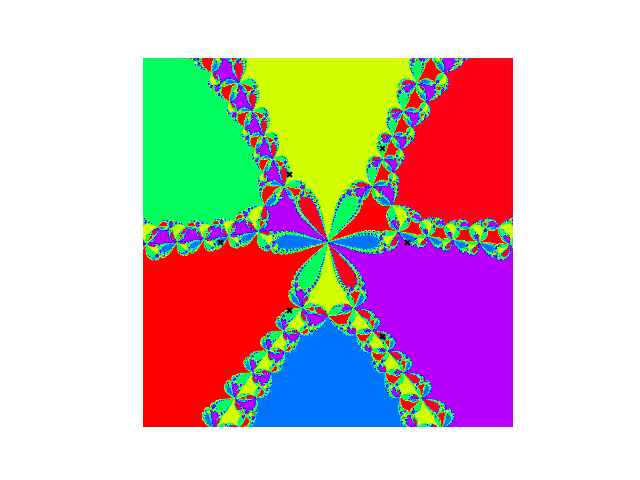
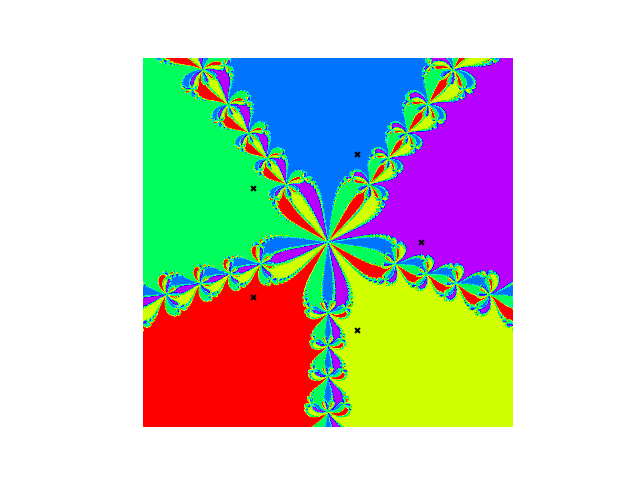
colors fix + main + script

diff --git a/main.py b/main.py
@@ -1,0 +1,32 @@
+import sys
+import warnings
+
+from newtonpolyroots import *
+from plots import *
+
+
+warnings.filterwarnings("ignore")
+                        
+EPSILON = 10e-6
+GAMMA = 10e-3
+LIMIT = 10e3
+RESOLUTION = 1000
+
+
+def main():
+    print("Please provide polynomial coefficients in a single line, separated by single space, from lowest to highest degree.")
+    print("Example for z^6+z^3-1:")
+    print("-1 0 0 1 0 0 1")
+
+    coefs = [float(x) for x in sys.stdin.readline().split(' ')]
+
+    p = Polynomial(coefs)
+    print("Recieved polynomial:")
+    print(p)
+
+    r, Y = roots(p, (-2.0-2.0j,2.0+2.0j), EPSILON, GAMMA, LIMIT, RESOLUTION)
+    print(r)
+    rootsplot((-2.0-2.0j,2.0+2.0j), r, Y, RESOLUTION)
+
+if __name__ == "__main__":
+    main()

diff --git a/test.py b/test.py
@@ -30,9 +30,8 @@ def main():
     steps = newton(p, 1.0+1.0j, EPSILON, LIMIT)
     print(steps)
 
-    #realsteps = [(x.real, y.real) for x, y in steps]
-    #stepsplot2d((-1.0, 1.0), p, realsteps) 
-    # can be confusing as this plots a projection from side to real space
+    realsteps = [(x.real, y.real) for x, y in steps]
+    stepsplot2d((-1.0, 1.0), p, realsteps)  # can be confusing as this plots a projection from side to real space
 
     stepsplot3d((-2.0-2.0j,2.0+2.0j), p, steps)
 

diff --git a/newtonpolyroots.py b/newtonpolyroots.py
@@ -95,7 +95,7 @@ def roots(p: Polynomial, domain: Tuple[complex, complex], E: float, G: float, I:
                 return i
         r = len(roots)
         roots.append(root)
-        return r
+        return r+1
 
     dp = polyderiv(p)
 
